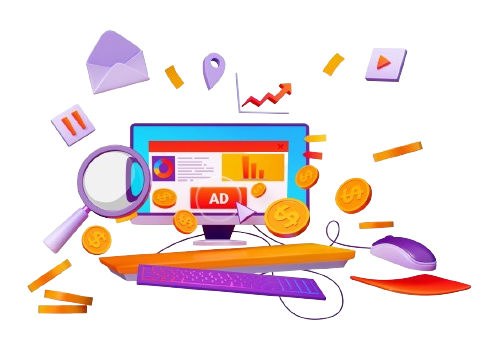
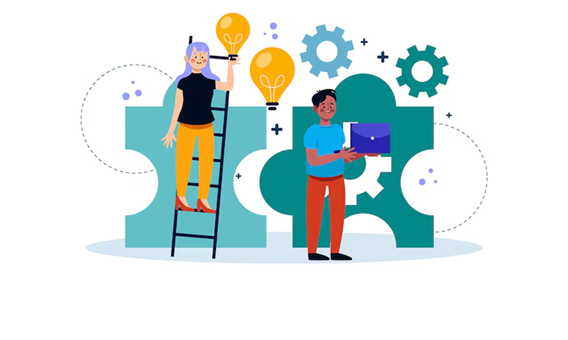
images-GoogleAds

diff --git a/google-ads.php b/google-ads.php
@@ -74,129 +74,139 @@
 <!--==================================================-->
 <!-- End funnelRivers slider Area -->
 <!--==================================================-->
+<!--==================================================-->
+<!-- Start funnelRivers service Area -->
+<!--==================================================-->
+<div class="service-area" id="blog">
+	<div class="container">		
+		<div class="row">	
+			<div class="col-lg-8 col-md-6 col-sm-12 col-sm-12">
+				<div class="row">
+					<div class="col-lg-12 col-sm-12">
+						<div class="funnelRivers-single-service-box">
+							<div class="funnelRivers-sigle-tmumb">
+								<img src="assets/images/resource/img-1.jpg" alt="">
+							</div>
+							<div class="em-service-content">
+								<div class="service-page-title">
+									<h1><a href="#">Funnelriver Google Ads Services</a></h1>
+									<p>At Funnelriver, we specialize in creating high-performance Google Ads campaigns tailored to your business goals. Our expert team ensures that your ads reach the right audience, driving qualified traffic and increasing conversions. With continuous optimization and detailed performance tracking, we deliver measurable results that maximize your ROI and boost your online presence.
+									</p>
+								</div>
+							</div>
+						</div>
+					</div>
+					<div class="col-lg-6 col-md-6 col-sm-12 srvce-upper pt-20 pb-50">
+						<div class="service-details-box">
+							<div class="service-details-icon">
+								<i class="fas fa-award"></i>
+							</div>
+							<div class="service-details-title">
+								<h4>Expert Content Creation</h4>
+								<p>High-quality, engaging content designed to resonate with your audience.
 
-<!--==================================================-->
-<!-- Start funnelRivers Blog grid Area -->
-<!--==================================================-->
-<div class="blog_area style-three">
-	<div class="container">
-		<div class="row">
-			<div class="col-lg-4 col-md-6 col-sm-12">
-				<div class="single_blog">
-					<div class="single_blog_thumb">
-						<a href="blog-details.html"><img src="assets\images\googleAds\google-ads-1-208x300.png" alt="" /></a>
+							</div>
+						</div>
 					</div>
-					<div class="single_blog_content">
-						<div class="datatech_blog_meta">
-							<p>Custom Google Ads Strategy</p>
+					<div class="col-lg-6 col-md-6 col-sm-12 srvce-upper pt-20 pb-50">
+						<div class="service-details-box">
+							<div class="service-details-icon">
+								<i class="flaticon-support-6"></i>
+							</div>
+							<div class="service-details-title">
+								<h4>Performance Monitoring</h4>
+								<p>Regular analytics and optimization to improve results.
+								</p>
+							</div>
 						</div>
-						<!-- <div class="post-categories">
-							<a href="blog-details.html">September 20, 2021</a>
-						</div> -->
-						<div class="blog_page_title">
-							<h4><a href="blog-details.html">Optimizing campaigns for the most effective keywords and ad placements.</a></h4>
+					</div>
+					<div class="col-lg-6 col-md-6 col-sm-12">
+						<div class="service-details-thumb">
+							<img src="assets/images/resource/img-2.png" alt="">
 						</div>
+					</div>
+					<div class="col-lg-6 col-md-6 col-sm-12">
+						<div class="service-details-icon-box">
+							<div class="service-details-icon-title">
+								<h3>We Serve the Best Work in Google Ads!
+								</h3>
+								<p>Dramatically monetize revolutionary collaboration and idea-sharing through accurate platforms the nectally syndicate high</p>
+							</div>
+						</div>
+						<div class="widget-service-details-icon">
+							<p><i class="fas fa-check"></i> <span>Tailored Strategies </span></p>
+							<p><i class="fas fa-check"></i> <span>Targeted Ads</span></p>
+							<p><i class="fas fa-check"></i> <span>Data-Driven Results</span></p>
+						</div>
+					</div>
+					<div class="col-lg-12 col-sm-12">
+					<div class="widget-details-text pt-25 pb-3">
+    					<p><i class="fas fa-check"></i> <b>Custom Google Ads Strategy</b> 
+    					Optimizing campaigns for the most effective keywords and ad placements.
+    					</p>
+    					<p><i class="fas fa-check"></i> <b>Search Campaigns for Targeted Reach</b>
+    					Crafting compelling ad copy to increase click-through rates (CTR) and conversions.
+    					</p>
+    					<p><i class="fas fa-check"></i> <b>Display Network Campaigns</b>
+    					Targeting specific websites, demographics, and interests to broaden brand exposure.
+    					</p>
+    					<p><i class="fas fa-check"></i> <b>Remarketing Campaigns</b>
+    					Re-engaging users who have previously visited your website with personalized ads.
+    					</p>
+    					<p><i class="fas fa-check"></i> <b>Shopping Ads for E-Commerce</b>
+    					Setting up Google Shopping ads to showcase your products directly in search results.
+    					</p>
+    					<p><i class="fas fa-check"></i> <b>YouTube Ads for Enhanced Visibility</b>
+    					Creating video ads on YouTube to capture attention with compelling visuals and messaging.
+    					</p>
+					</div>
+											
+					</div>
+				</div>	
+			</div>
+			<div class=" col-lg-4 col-md-6 col-sm-12 col-sm-12">
+				<div class="widget-service-box">
+					<h4>ALL SERVICES</h4>
+					<div class="widget-service-menu">
+						<ul>
+							<li><a href="google-ads.php">Google Ads<i class="fas fa-angle-right"></i></a></li>	
+							<li><a href="facebook-ads.php">Facebook Ads <i class="fas fa-angle-right"></i></a></li>
+							<li><a href="youtube-ads.php">YouTube Ads<i class="fas fa-angle-right"></i></a></li>
+							<li><a href="X-twitter-ads.php">X-Twitter Ads <i class="fas fa-angle-right"></i></a></li>
+							<li><a href="instagram-ads.php">Instagram Ads <i class="fas fa-angle-right"></i></a></li>
+						</ul>
 					</div>
 				</div>
-			</div>
-			<div class="col-lg-4 col-md-6 col-sm-12">
-				<div class="single_blog">
-					<div class="single_blog_thumb">
-						<a href="blog-details.html"><img src="assets\images\googleAds\google-ads-208x300.png" alt="" /></a>
-					</div>
-					<div class="single_blog_content">
-						<div class="datatech_blog_meta">
-							<p>Search Campaigns for Targeted Reach</p>
-						</div>
-						<!-- <div class="post-categories">
-							<a href="blog-details.html">September 20, 2021</a>
+				<div class="widget-service-thumb-box">
+					<div class="wedget-service-thumb">
+						<img src="assets\images\googleAds\google-ads-1-208x300.png" alt="Instagram Ads">		
+						<!-- <div class="widget-service-content text-center">
+							<div class="widget-text">
+								<p>Contact Us Now</p>
+							</div>
+							<div class="widget-title2">
+								<h3>If Need Help</h3>
+							</div>
+							<div class="widget-contact-title">
+								<h2>557-3452-234</h2>
+								<p>Or got to contact form</p>
+							</div>
+							<div class="widget-button">
+								<a href="#">LET’s START NOW</a>
+								<span><i class="fas fa-link"></i></span>
+							</div>
 						</div> -->
-						<div class="blog_page_title">
-							<h4><a href="blog-details.html">Crafting compelling ad copy to increase click-through rates (CTR) and conversions.</a></h4>
-						</div>
 					</div>
 				</div>
-			</div>
-			<div class="col-lg-4 col-md-6 col-sm-12">
-				<div class="single_blog">
-					<div class="single_blog_thumb">
-						<a href="blog-details.html"><img src="assets\images\googleAds\google-ads-1-208x300.png" alt="" /></a>
-					</div>
-					<div class="single_blog_content">
-						<div class="datatech_blog_meta">
-							<p>Display Network Campaigns</p>
-						</div>
-						<!-- <div class="post-categories">
-							<a href="blog-details.html">September 20, 2021</a>
-						</div> -->
-						<div class="blog_page_title">
-							<h4><a href="blog-details.html">Targeting specific websites, demographics, and interests to broaden brand exposure.</a></h4>
-						</div>
-					</div>
-				</div>
-			</div>
-			<div class="col-lg-4 col-md-6 col-sm-12">
-				<div class="single_blog">
-					<div class="single_blog_thumb">
-						<a href="blog-details.html"><img src="assets\images\googleAds\google-ads-208x300.png" alt="" /></a>
-					</div>
-					<div class="single_blog_content">
-						<div class="datatech_blog_meta">
-							<p>Remarketing Campaigns</p>
-						</div>
-						<!-- <div class="post-categories">
-							<a href="blog-details.html">September 20, 2021</a>
-						</div> -->
-						<div class="blog_page_title">
-							<h4><a href="blog-details.html">Re-engaging users who have previously visited your website with personalized ads.</a></h4>
-						</div>
-					</div>
-				</div>
-			</div>
-			<div class="col-lg-4 col-md-6 col-sm-12">
-				<div class="single_blog">
-					<div class="single_blog_thumb">
-						<a href="blog-details.html"><img src="assets\images\googleAds\google-ads-1-208x300.png" alt="" /></a>
-					</div>
-					<div class="single_blog_content">
-						<div class="datatech_blog_meta">
-							<p>Shopping Ads for E-Commerce</p>
-						</div>
-						<!-- <div class="post-categories">
-							<a href="blog-details.html">September 20, 2021</a>
-						</div> -->
-						<div class="blog_page_title">
-							<h4><a href="blog-details.html">Setting up Google Shopping ads to showcase your products directly in search results.
-							</a></h4>
-						</div>
-					</div>
-				</div>
-			</div>
-			<div class="col-lg-4 col-md-6 col-sm-12">
-				<div class="single_blog">
-					<div class="single_blog_thumb">
-						<a href="blog-details.html"><img src="assets\images\googleAds\google-ads-208x300.png" alt="" /></a>
-					</div>
-					<div class="single_blog_content">
-						<div class="datatech_blog_meta">
-							<p>YouTube Ads for Enhanced Visibility</p>
-						</div>
-						<!-- <div class="post-categories">
-							<a href="blog-details.html">September 20, 2021</a>
-						</div> -->
-						<div class="blog_page_title">
-							<h4><a href="blog-details.html">Creating video ads on YouTube to capture attention with compelling visuals and messaging.
-							</a></h4>
-						</div>
-					</div>
-				</div>
-			</div>
-		</div>		
+			</div>	
+		</div>
 	</div>
 </div>
 <!--==================================================-->
-<!-- End funnelRivers Blog grid Area -->
+<!-- End funnelRivers service Area -->
 <!--==================================================-->
+<!--==================================================-->
+
 
 
 

diff --git a/index.php b/index.php
@@ -637,7 +637,7 @@
 				<div class="single_portfolio_box">
 					<div class="single_portfolio_inner">
 						<div class="single_portfolio_thumb">
-							<img src="assets/images/resource/port-2.jpg" alt="" />
+							<img src="assets\images\resource\Funnel Reverse_Email marketing specialist.png" alt="Email Marketing Specialist" />
 						</div>
 						<div class="single_portfolio_content-2">
 							<div class="single-portfolio-content-inner-2">
@@ -655,7 +655,7 @@
 				<div class="single_portfolio_box">
 					<div class="single_portfolio_inner">
 						<div class="single_portfolio_thumb">
-							<img src="assets/images/resource/port-3.jpg" alt="" />
+							<img src="assets\images\resource\Funnel Reverse_Startegic Fusion.png" alt="Strategic Fusion" />
 						</div>
 						<div class="single_portfolio_content-3">
 							<div class="single-portfolio-content-inner-3">
@@ -673,7 +673,7 @@
 				<div class="single_portfolio_box">
 					<div class="single_portfolio_inner">
 						<div class="single_portfolio_thumb">
-							<img src="assets/images/resource/port-4.jpg" alt="" />
+							<img src="assets\images\resource\Funnel Reverse_ Data driven precision.png" alt="Data-Driven Precision" />
 						</div>
 						<div class="single_portfolio_content-4">
 							<div class="single-portfolio-content-inner-4">
@@ -691,7 +691,7 @@
 				<div class="single_portfolio_box">
 					<div class="single_portfolio_inner">
 						<div class="single_portfolio_thumb">
-							<img src="assets/images/resource/port-4.jpg" alt="" />
+							<img src="assets\images\resource\Funnel Reverse_ Creative Narrative.png" alt="Creative Narratives" />
 						</div>
 						<div class="single_portfolio_content-4">
 							<div class="single-portfolio-content-inner-4">
@@ -709,7 +709,7 @@
 				<div class="single_portfolio_box">
 					<div class="single_portfolio_inner">
 						<div class="single_portfolio_thumb">
-							<img src="assets/images/resource/port-4.jpg" alt="" />
+							<img src="assets\images\resource\Funnel Reverse_ client Centric Collebration.png" alt="Client-Centric Collaboration" />
 						</div>
 						<div class="single_portfolio_content-4">
 							<div class="single-portfolio-content-inner-4">

diff --git a/our-clients.php b/our-clients.php
@@ -83,7 +83,7 @@
 							<h3>Startups</h3>
 						</div>
 						<div class="team-text">
-							<p>Supporting startups with brand development, digital marketing strategies, and website creation.</p>
+							<p>Supporting startups with brand development, digital marketing strategies, and website creation. <br><br><br><br></p>
 						</div>
 					</div>
 					<!-- <div class="team-icon">
@@ -109,7 +109,7 @@
 							<h3>E-Commerce Brands</h3>
 						</div>
 						<div class="team-text">
-							<p>Empowering e-commerce businesses with advanced website solutions, product catalog integration, and digital marketing strategies.</p>
+							<p>Empowering e-commerce businesses with advanced website solutions, product catalog integration, and digital marketing strategies. <br><br><br></p>
 						</div>
 					</div>
 					<!-- <div class="team-icon">
